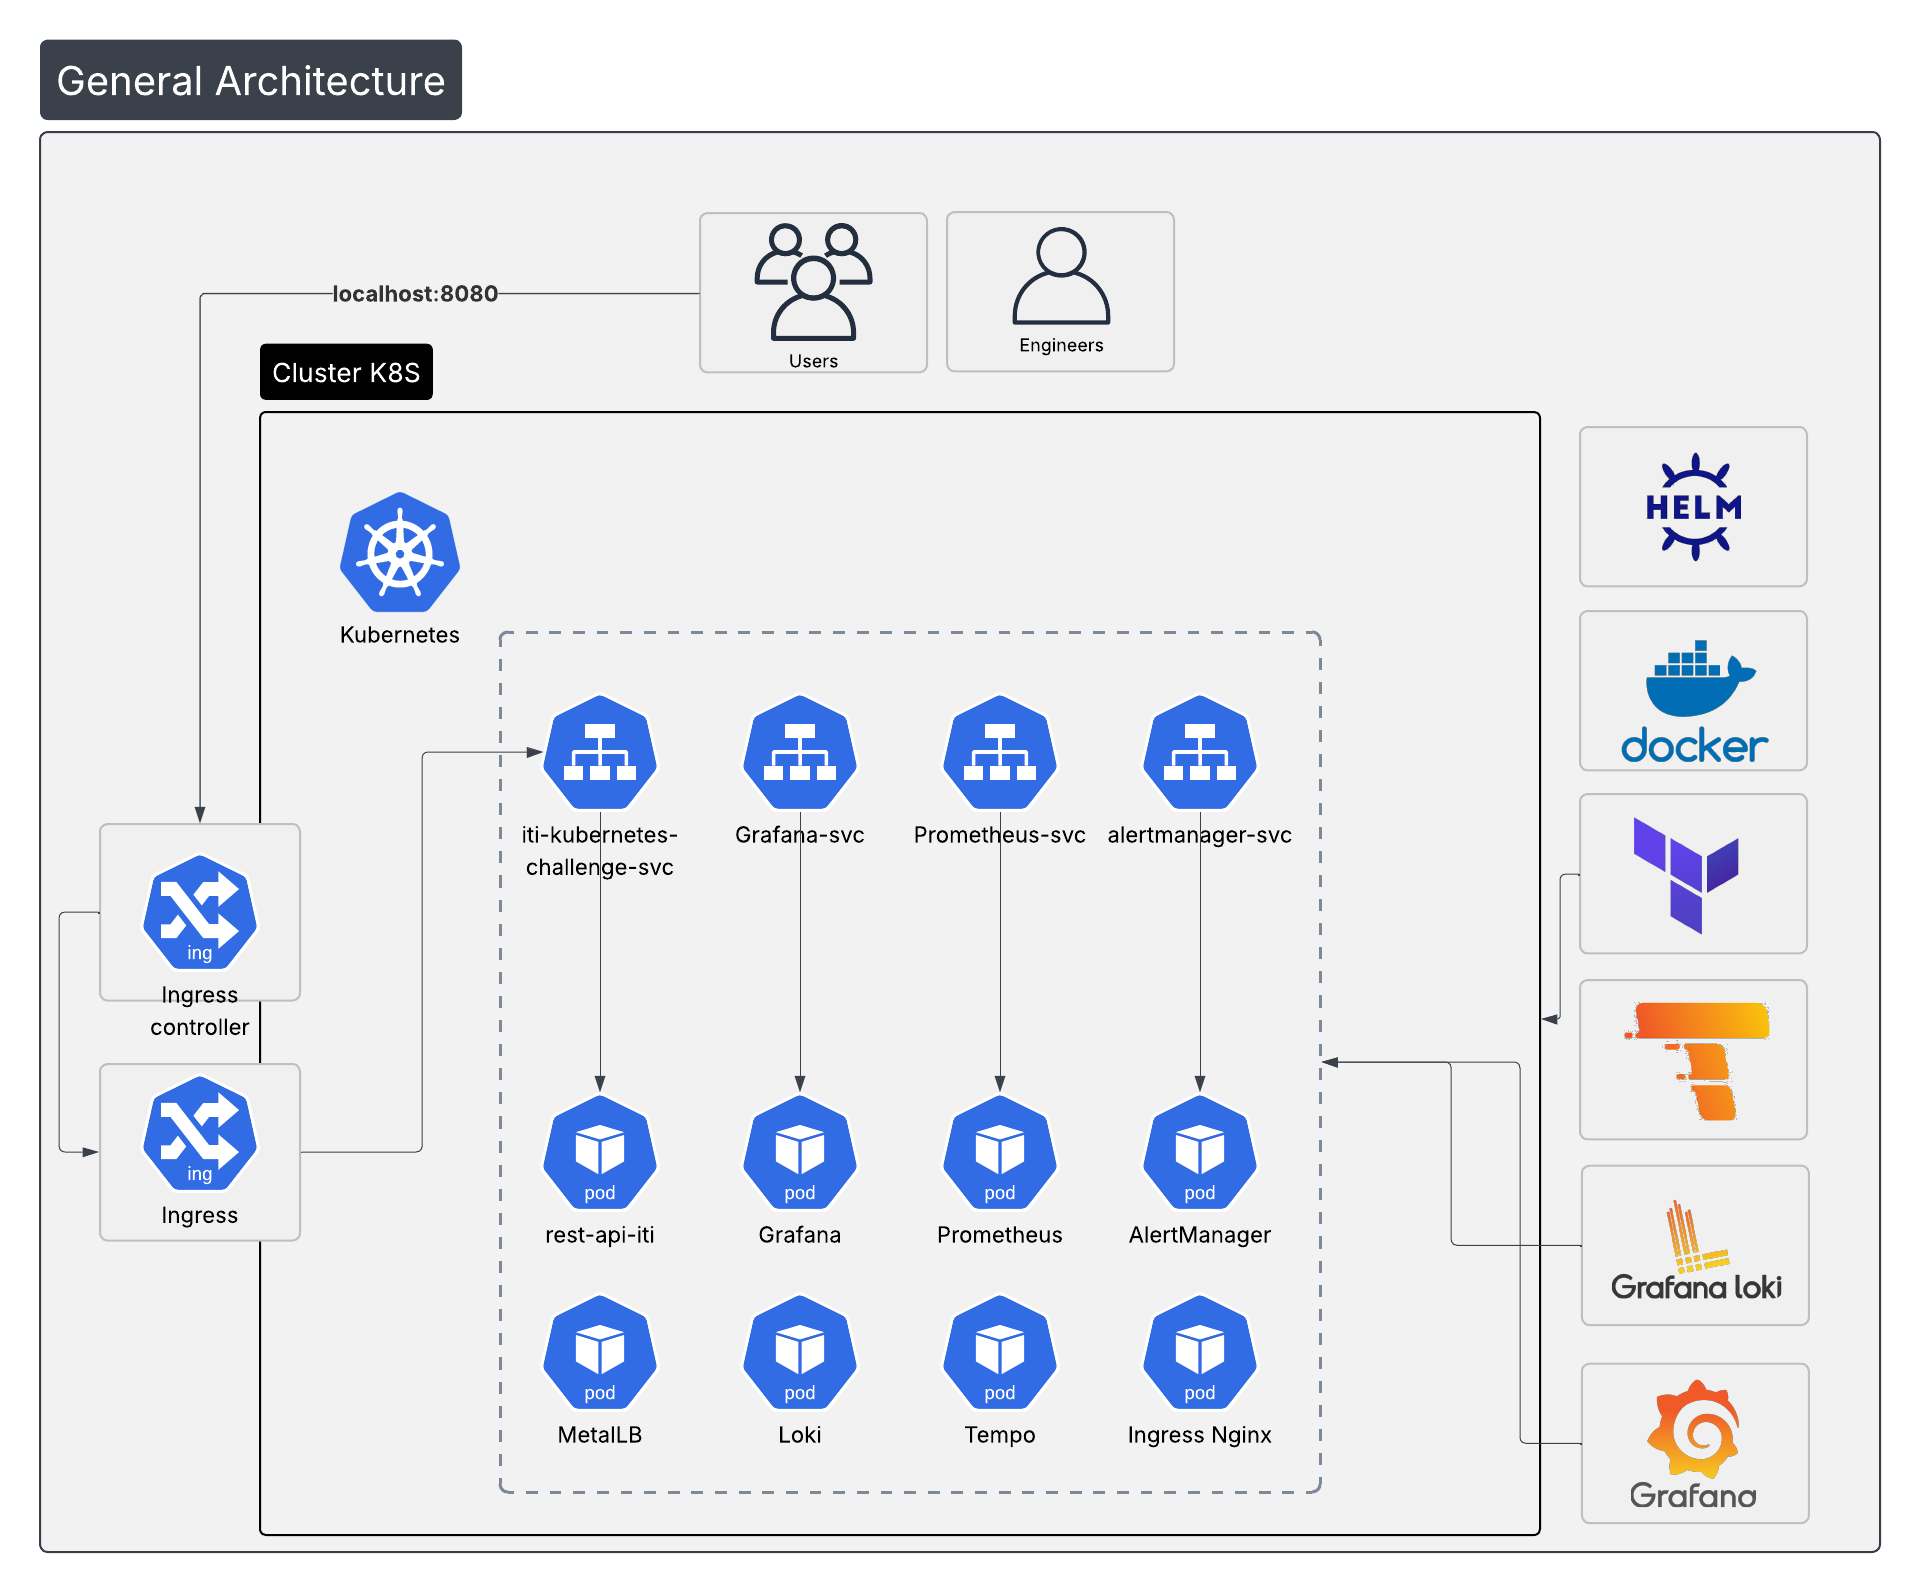
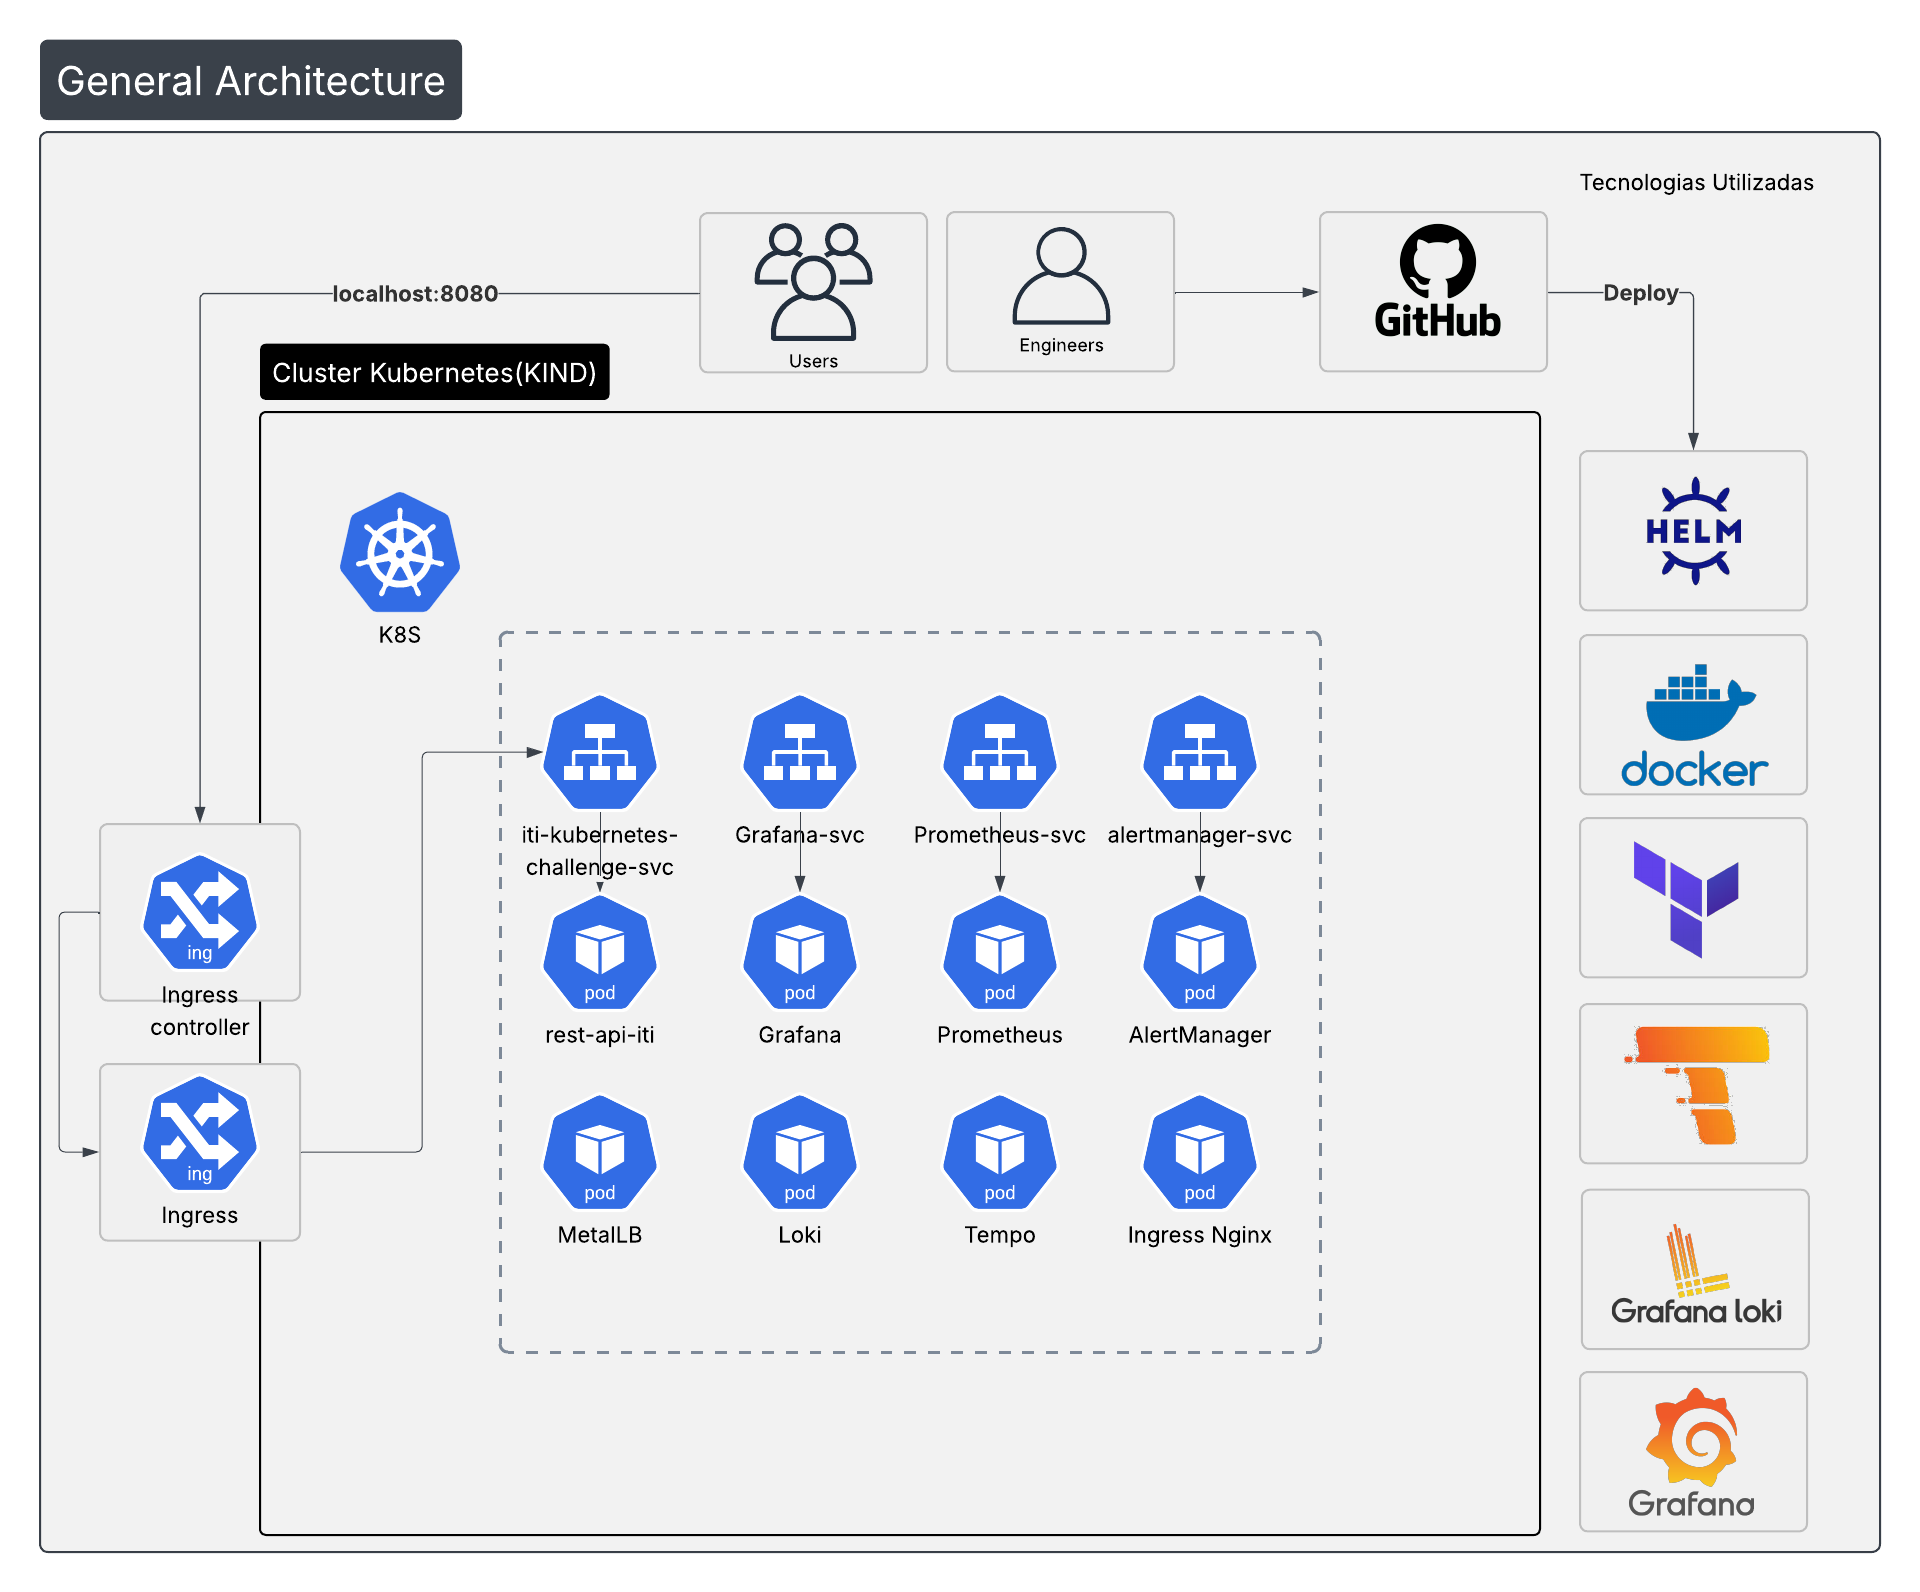
feat: improve the topology and readme

diff --git a/README.md b/README.md
@@ -1,6 +1,8 @@
 # ITI Kubernetes Challenge
 
-Projeto de desafio Kubernetes com deploy automatizado usando Terraform, Helm e KIND.
+Projeto de desafio **ITI Kubernetes Challenge** que implementa uma solução completa de deploy automatizado de uma API REST escrita em Kotlin em um cluster Kubernetes local (KIND). A aplicação é empacotada como Helm chart e gerenciada via Terraform, garantindo infraestrutura como código (IaC) e deploy reproduzível.
+
+O projeto demonstra boas práticas de DevOps e Cloud Native, incluindo containerização multi-plataforma, orquestração com Kubernetes, observabilidade completa (métricas, logs e traces), autoscaling, alta disponibilidade e segurança. A stack de observabilidade integra Prometheus, Grafana, Loki e Tempo para monitoramento end-to-end da aplicação. 
 
 ## Tecnologias Utilizadas
 
@@ -39,54 +41,54 @@ Projeto de desafio Kubernetes com deploy automatizado usando Terraform, Helm e K
 │                    FLUXO DE DEPLOY                            │
 └─────────────────────────────────────────────────────────────┘
 
-1. Criação do Cluster KIND
-   │
-   ├─> make cluster
-   │
-   └─> Cria cluster local com 1 control-plane + 2 workers
-       Nome: kind-itau-cluster
+    1. Criação do Cluster KIND
+    │
+    ├─> make cluster
+    │
+    └─> Cria cluster local com 1 control-plane + 2 workers
+        Nome: kind-itau-cluster
 
-2. Instalação de Dependências do Cluster
-   │
-   ├─> make pre
-   │
-   └─> Instala MetalLB para LoadBalancer services
-       Namespace: metallb-system
+    2. Instalação de Dependências do Cluster
+    │
+    ├─> make pre
+    │
+    └─> Instala MetalLB para LoadBalancer services
+        Namespace: metallb-system
 
-3. Deploy de Dependências via Helm
-   │
-   ├─> make helm
-   │
-   └─> Aplica configurações via Helmfile
-       (ArgoCD, Ingress Controller, etc.)
+    3. Deploy de Dependências via Helm
+    │
+    ├─> make helm
+    │
+    └─> Aplica configurações via Helmfile
+        (ArgoCD, Ingress Controller, etc.)
 
-4. Build e Push da Imagem Docker
-   │
-   ├─> make build
-   │
-   └─> Build multi-plataforma (amd64/arm64)
-       Push: juanferreiramf/iti-kubernetes-challenge:latest
+    4. Build e Push da Imagem Docker
+    │
+    ├─> make build
+    │
+    └─> Build multi-plataforma (amd64/arm64)
+        Push: juanferreiramf/iti-kubernetes-challenge:latest
 
-5. Deploy da Aplicação via Terraform
-   │
-   ├─> cd terraform
-   ├─> terraform init
-   ├─> terraform plan -var-file=environment/development.tfvars
-   └─> terraform apply -var-file=environment/development.tfvars
-       │
-       ├─> Cria namespaces (rest-api, monitoring, kube-system)
-       ├─> Deploy REST API via Helm
-       ├─> Deploy kube-prometheus-stack
-       ├─> Deploy Loki
-       ├─> Deploy Tempo
-       └─> Deploy Metrics Server
+    5. Deploy da Aplicação via Terraform
+    │
+    ├─> cd terraform
+    ├─> terraform init
+    ├─> terraform plan -var-file=environment/development.tfvars
+    └─> terraform apply -var-file=environment/development.tfvars
+        │
+        ├─> Cria namespaces (rest-api, monitoring, kube-system)
+        ├─> Deploy REST API via Helm
+        ├─> Deploy kube-prometheus-stack
+        ├─> Deploy Loki
+        ├─> Deploy Tempo
+        └─> Deploy Metrics Server
 
-6. Testes
-   │
-   └─> make tests
-       │
-       ├─> Port-forward REST API (localhost:8080)
-       └─> Port-forward Grafana (localhost:8089)
+    6. Testes
+    │
+    └─> make tests
+        │
+        ├─> Port-forward REST API (localhost:8080)
+        └─> Port-forward Grafana (localhost:8089)
 ```
 
 ## Makefile
